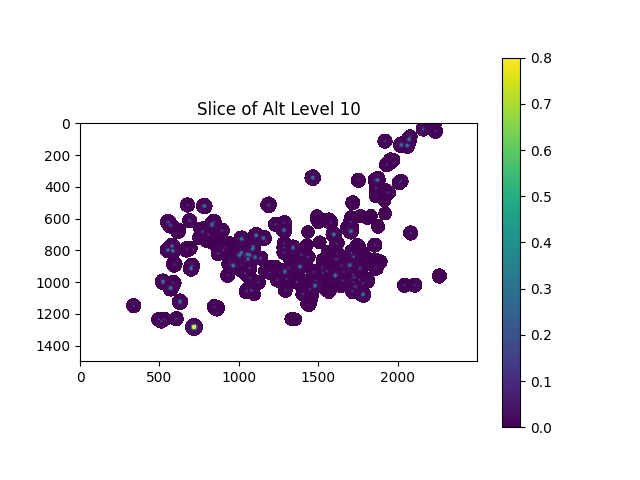
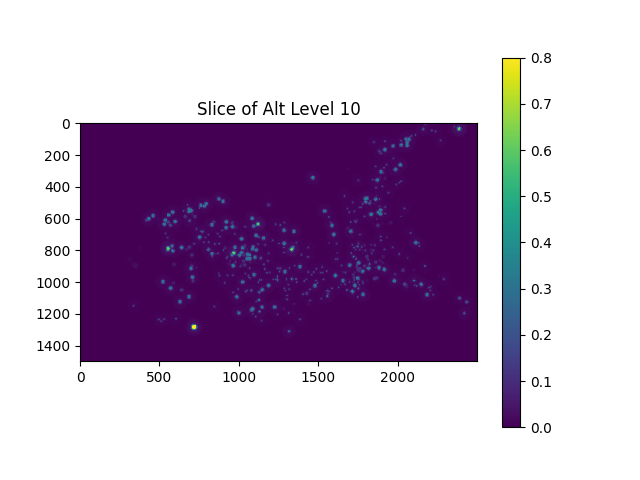
undid temp changes and removed prints

Changed region(s): [[0.125, 0.25, 0.75, 0.75]]

diff --git a/src/pirep/defs/spreading.py b/src/pirep/defs/spreading.py
@@ -183,17 +183,8 @@ def add_pirep(grid, prData, intensity, BACKGROUND_RISK):
     k_lon_min = k_lon_center - (lon - g_lon_min)
     k_lon_max = k_lon_center + (g_lon_max - lon)
 
-    print(f"{g_lat_min} {g_lat_max} {g_lon_min} {g_lon_max}")
-    print(f"{k_lat_min} {k_lat_max} {k_lon_min} {k_lon_max}")
-
-
     target_area = grid[g_lat_min : g_lat_max, g_lon_min : g_lon_max , :]
     kernel_area = subGrid[k_lat_min : k_lat_max, k_lon_min : k_lon_max , :]
-
-    print(f"{np.nanmax(target_area)}")
-    print(f"{np.nanmax(kernel_area)}")
-    print(np.max(grid))
-    print("="*80)
     grid[g_lat_min : g_lat_max, g_lon_min : g_lon_max , :] = np.fmax(target_area, kernel_area)
 
 # Function that takes reports and spreads all PIREPS and smooshes everything together iteratively
@@ -226,9 +217,9 @@ def concatenate_all_pireps(reports: list[dict], background_risk: int):
     # finalGrid[locs] = BACKGROUND_RISK
 
     # TODO ADD THIS BACK AIDEN
-    # mask = np.isnan(finalGrid) | (finalGrid == -np.inf)
-    # finalGrid[mask] = np.random.uniform(
-    #     1e-5, 1e-7, size=mask.sum()
-    # )  # TODO document magic numbers
+    mask = np.isnan(finalGrid) | (finalGrid == -np.inf)
+    finalGrid[mask] = np.random.uniform(
+        1e-5, 1e-7, size=mask.sum()
+    )  # TODO document magic numbers
 
     return finalGrid

diff --git a/src/spreading_testing.py b/src/spreading_testing.py
@@ -15,7 +15,7 @@ from pirep.defs.spreading import concatenate_all_pireps, spread_pirep
 
 def main():
     ts_begin = time.time()
-    reports = pr.parse_all(pr.fetch(pr.url(dt.datetime(2024, 11, 6, 0, 0, 0, tzinfo=dt.UTC), dt.datetime(2024, 11, 6, 12, 0, 0, tzinfo=dt.UTC))))
+    reports = pr.parse_all(pr.fetch(pr.url(dt.datetime(2024, 11, 6, 0, 0, 0, tzinfo=dt.UTC), dt.datetime(2024, 11, 7, 0, 0, 0, tzinfo=dt.UTC))))
     print(f"Number of reports in specified range is {len(reports)}")
     ts_fetch = time.time()
     print(f"Time taken to fetch = {ts_fetch - ts_begin}")
